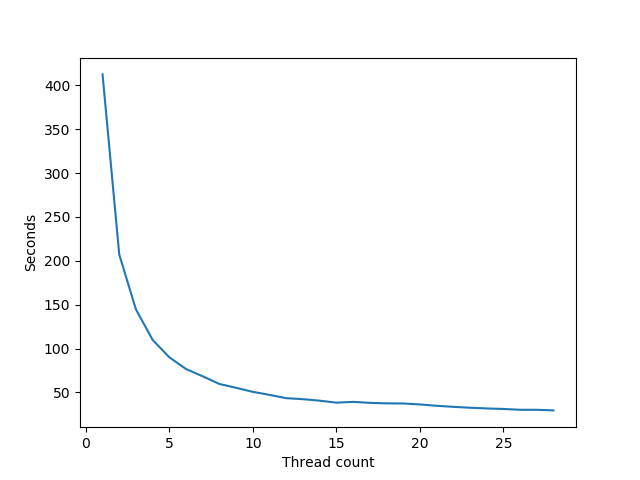
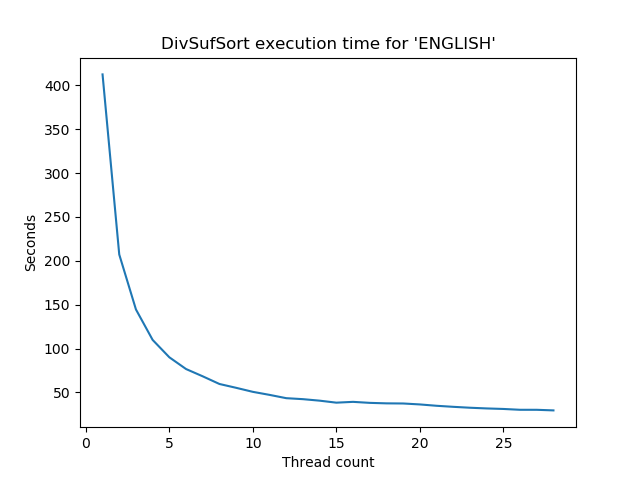
add title to graphs

Changed region(s): [[0.25, 0.0625, 0.7812, 0.125]]

diff --git a/source/grapher.py b/source/grapher.py
@@ -46,10 +46,14 @@ except FileNotFoundError:
 except Exception:
     panic('Something went wrong!')
 
+# Get the name of the input file.
+file_stem = str(Path(sys.argv[1]).stem)
+
 # Plot the counts and seconds using matplotlib.
 pyplot.plot(counts, seconds)
+pyplot.title('DivSufSort execution time for \'{0}\''.format(file_stem.upper()))
 pyplot.xlabel('Thread count')
 pyplot.ylabel('Seconds')
 
 # Save the graph.
-pyplot.savefig(OUTPUT_FILE_FORMAT.format(str(Path(sys.argv[1]).stem)))
+pyplot.savefig(OUTPUT_FILE_FORMAT.format(file_stem))
